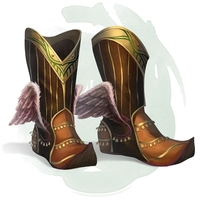
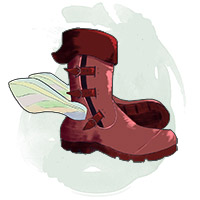
feat[data]

diff --git a/data/allitems.js b/data/allitems.js
@@ -936,6 +936,21 @@ var allItems = [
   },
   {
     "en": {
+      "name": "Winged boots",
+      "type": "Wondrous item",
+      "rarity": 2,
+      "attunement": "(requires attunement)",
+      "text": "While you wear these boots, you have a flying speed equal to your walking speed. You can use the boots to fly for up to 4 hours, all at once or in several shorter flights, each one using a minimum of 1 minute from the Duration. If you are flying when the Duration expires, you descend at a rate of 30 feet per round until you land.<br>The boots regain 2 hours of flying capability for every 12 hours they aren't in use.",
+      "source": "DMG",
+      "img": "WINGED_BOOTS.jpg"
+    },
+    "ru": {
+      "name": "Крылатые сапоги",
+      "text": "Пока вы носите эти сапоги, вы обладаете скоростью полёта, равной вашей скорости ходьбы. С помощью сапогов вы можете лететь до 4 часов, за раз или по частям, но каждое использование считается как минимум за 1 минуту. Если вы летите, когда 4 часа заканчиваются, вы спускаетесь со скоростью 30 футов в раунд, пока не приземлитесь.<br>Сапоги восстанавливают 2 часа полёта за каждые 12 часов, пока не используются."
+    }
+  },
+  {
+    "en": {
       "name": "BOOTS OF SPEED",
       "type": "Wondrous item",
       "rarity": 3,

diff --git a/index.html b/index.html
@@ -125,7 +125,7 @@
   <script type='text/javascript' src='js/jquery-1.11.3.min.js'></script>
   <!-- <script type='text/javascript' src='https://tentaculus.ru/_js/jquery.mobile.custom.min.js' defer></script> -->
 
-  <script type='text/javascript' src='data/allItems.js?v=1.2' defer></script>
+  <script type='text/javascript' src='data/allItems.js?v=1.3' defer></script>
 
   <script type='text/javascript' src='js/script.js?v=0.5' defer></script>
   <script type='text/javascript' src="js/FileSaver.min.js"></script>
